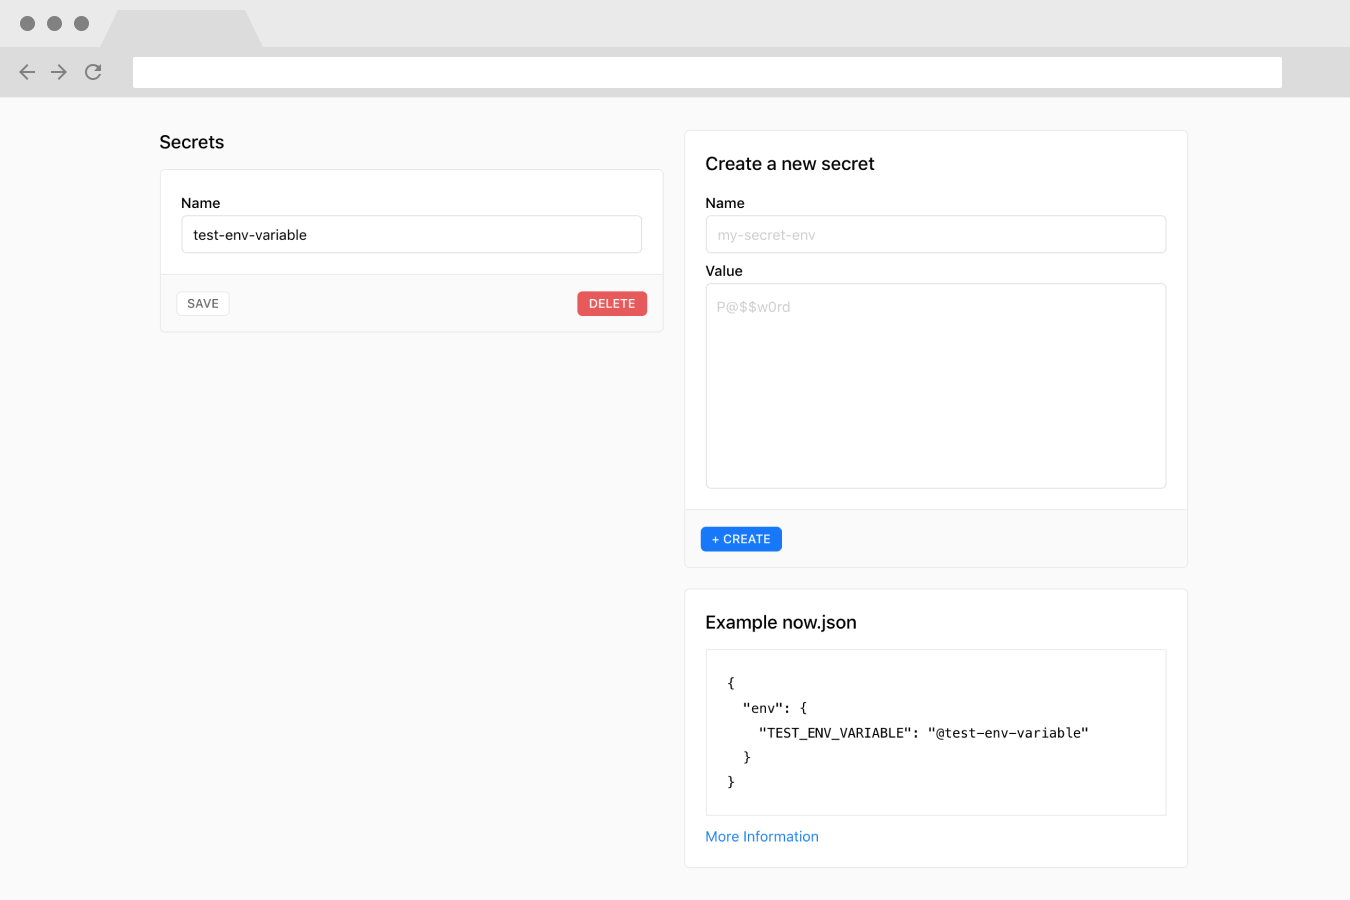
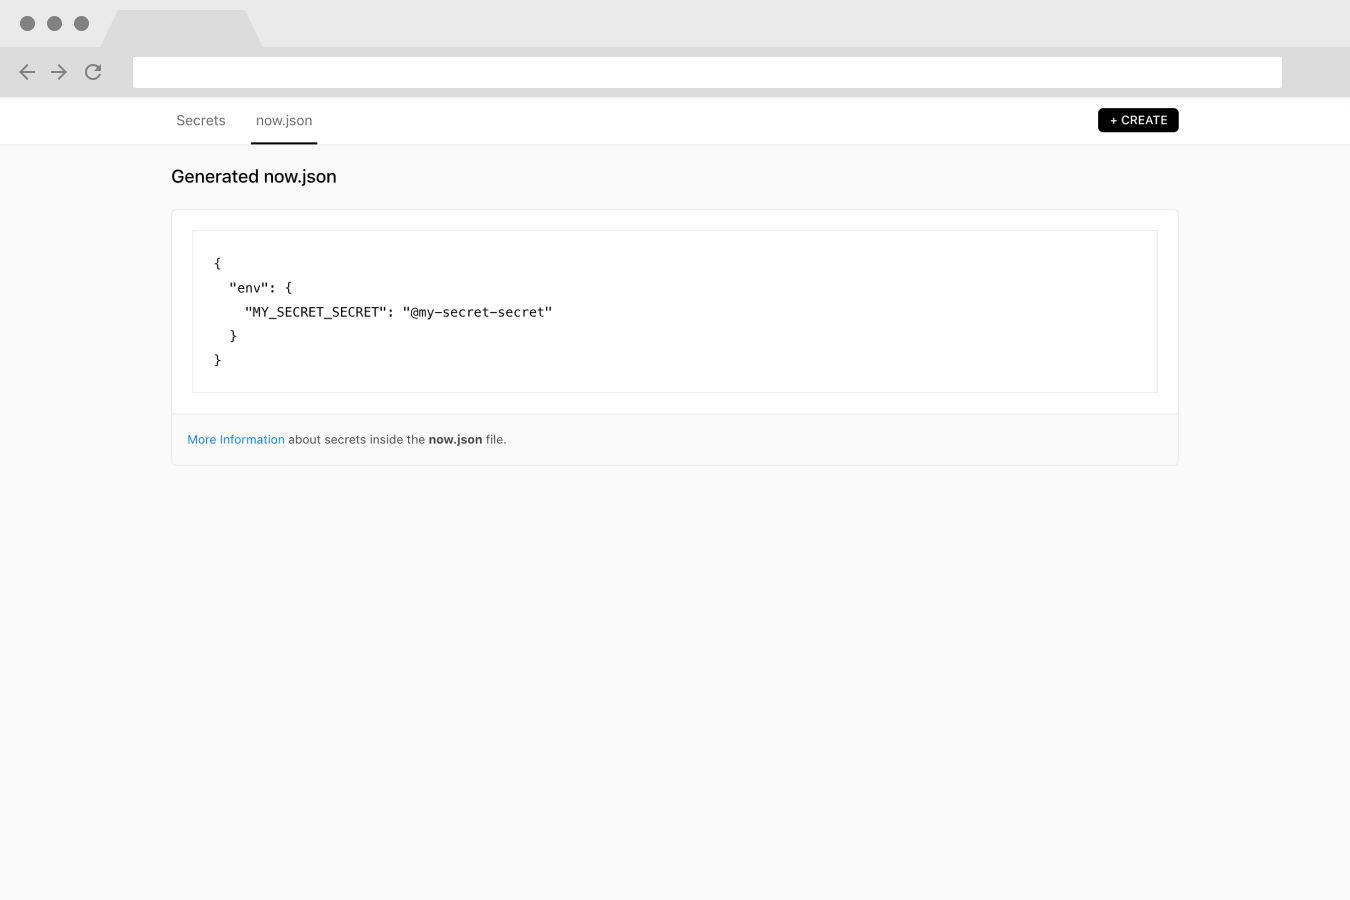
refactor(integration): fix several bugs
add new screenshots
add minimal prettier config
format files

diff --git a/index.js b/index.js
@@ -19,14 +19,13 @@ module.exports = withUiHook(async ctx => {
   await register('/now-json', NowJson);
   await register('/', Main);
 
-
   const activeHome =
-  payload.action === 'view' ||
-  payload.action === navigate('/') ||
-  payload.action.indexOf('//') !== -1;
+    payload.action === 'view' ||
+    payload.action === navigate('/') ||
+    payload.action.indexOf('//') !== -1;
   const activeNow = payload.action.indexOf(navigate('/now-json')) !== -1;
   const activeCreate =
-  payload.action.indexOf(navigate('/create-secret/')) !== -1;
+    payload.action.indexOf(navigate('/create-secret/')) !== -1;
 
   const activeStyle = '2px solid #000';
   const createButtonOpacity = activeCreate ? 0.2 : 1;
@@ -45,7 +44,6 @@ module.exports = withUiHook(async ctx => {
       boxShadow="inset 0px 7px 10px -11px rgba(0,0,0,0.1)"
     >
       <Box maxWidth="1040px" margin="0 auto" padding="0 20px" display="grid" gridTemplateColumns="auto auto 1fr" gridGap="20px">
-
         <Box padding="0 5px 8px" borderBottom=${activeHome ? activeStyle : ''}>
           <Link action=${navigate('/')}>
             <Box color="#666">
@@ -62,12 +60,11 @@ module.exports = withUiHook(async ctx => {
           </Link>
         </Box>
 
-        <Box textAlign="right" opacity=${createButtonOpacity}>
+        <Box textAlign="right" marginTop="-2px" opacity=${createButtonOpacity}>
           <Button action=${navigate(
             '/create-secret/form'
           )} small>+ create</Button>
         </Box>
-
       </Box>
     </Box>
 

diff --git a/views/now-json.js b/views/now-json.js
@@ -1,10 +1,17 @@
+// const zeitApiClient = require('../libs/zeit-api-client');
+
 const generateEnvVariable = name => name.replace(/-/g, '_').toUpperCase();
 
-module.exports = async ({ zeitClient, htm }) => {
+module.exports = async ({ zeitClient, htm, navigate }) => {
+  // const zac = zeitApiClient(zeitClient);
   const metadata = await zeitClient.getMetadata();
 
+  // // get secrets
+  // metadata.secrets = await zac.getSecrets();
+  // await zeitClient.setMetadata(metadata);
+
   let jsonStr = {
-    env: []
+    env: null
   };
 
   if (metadata.secrets && metadata.secrets.length > 0) {
@@ -23,13 +30,19 @@ module.exports = async ({ zeitClient, htm }) => {
       <Fieldset>
         <FsContent>
           ${
-            jsonStr.env.length > 0
+            jsonStr.env
               ? htm`<Code width="200px">${JSON.stringify(
                   jsonStr,
                   undefined,
                   2
                 )}</Code>`
-              : `First you have to create a secret, to get an example JSON.`
+              : htm`First you have to <Link action=${navigate(
+                  '/create-secret/form'
+                )}>
+              <B>
+                create
+              </B>
+            </Link> a secret to get an example JSON.`
           }
         </FsContent>
         <FsFooter>

diff --git a/views/main.js b/views/main.js
@@ -7,7 +7,8 @@ const Notification = require('../components/notification');
 module.exports = async ({
   zeitClient,
   payload: { action, clientState },
-  htm
+  htm,
+  navigate
 }) => {
   const zac = zeitApiClient(zeitClient);
   const metadata = await zeitClient.getMetadata();
@@ -80,7 +81,9 @@ module.exports = async ({
           ? metadata.secrets.map(({ name }) => {
               return htm`<${SecretInput} name=${name} deployments=${[]} />`;
             })
-          : htm`<Fieldset><FsContent>You haven't created a secret yet. Click on <B>+ CREATE</B> to add one or more. </FsContent></Fieldset>`
+          : htm`<Fieldset><FsContent>You haven't created a secret yet. Click on <Link action=${navigate(
+              '/create-secret/form'
+            )}><B>+ CREATE</B></Link> to add one or more. </FsContent></Fieldset>`
       }
       </Box>
     </Box>`;

diff --git a/components/secret-input.js b/components/secret-input.js
@@ -20,7 +20,8 @@ module.exports = ({ name, deployments }) => {
       </FsContent>
       <FsFooter>
         <Box display="flex" justifyContent="space-between" width="100%">
-          <Button small secondary action=${'//edit-secret-' + name}>save</Button>
+          <Button small secondary action=${'//edit-secret-' +
+            name}>save</Button>
           <Button float="right" small warning action=${'/confirm-delete/' +
             name}>delete</Button>
         </Box>

diff --git a/views/create-secret.js b/views/create-secret.js
@@ -28,6 +28,7 @@ module.exports = async ({ zeitClient, payload, htm, navigate }) => {
       };
     }
 
+    metadata.secrets = await zac.getSecrets();
     await zeitClient.setMetadata(metadata);
   }
 

diff --git a/README.md b/README.md
@@ -33,6 +33,10 @@ This Application only uses the [zeit.co api](https://zeit.co/docs/api/) and does
   <img src="./assets/screen3.png">
 </p>
 
+<p align="center">
+  <img src="./assets/screen4.png">
+</p>
+
 ### Development
 
 First add **[now-cli](https://github.com/zeit/now-cli)**
